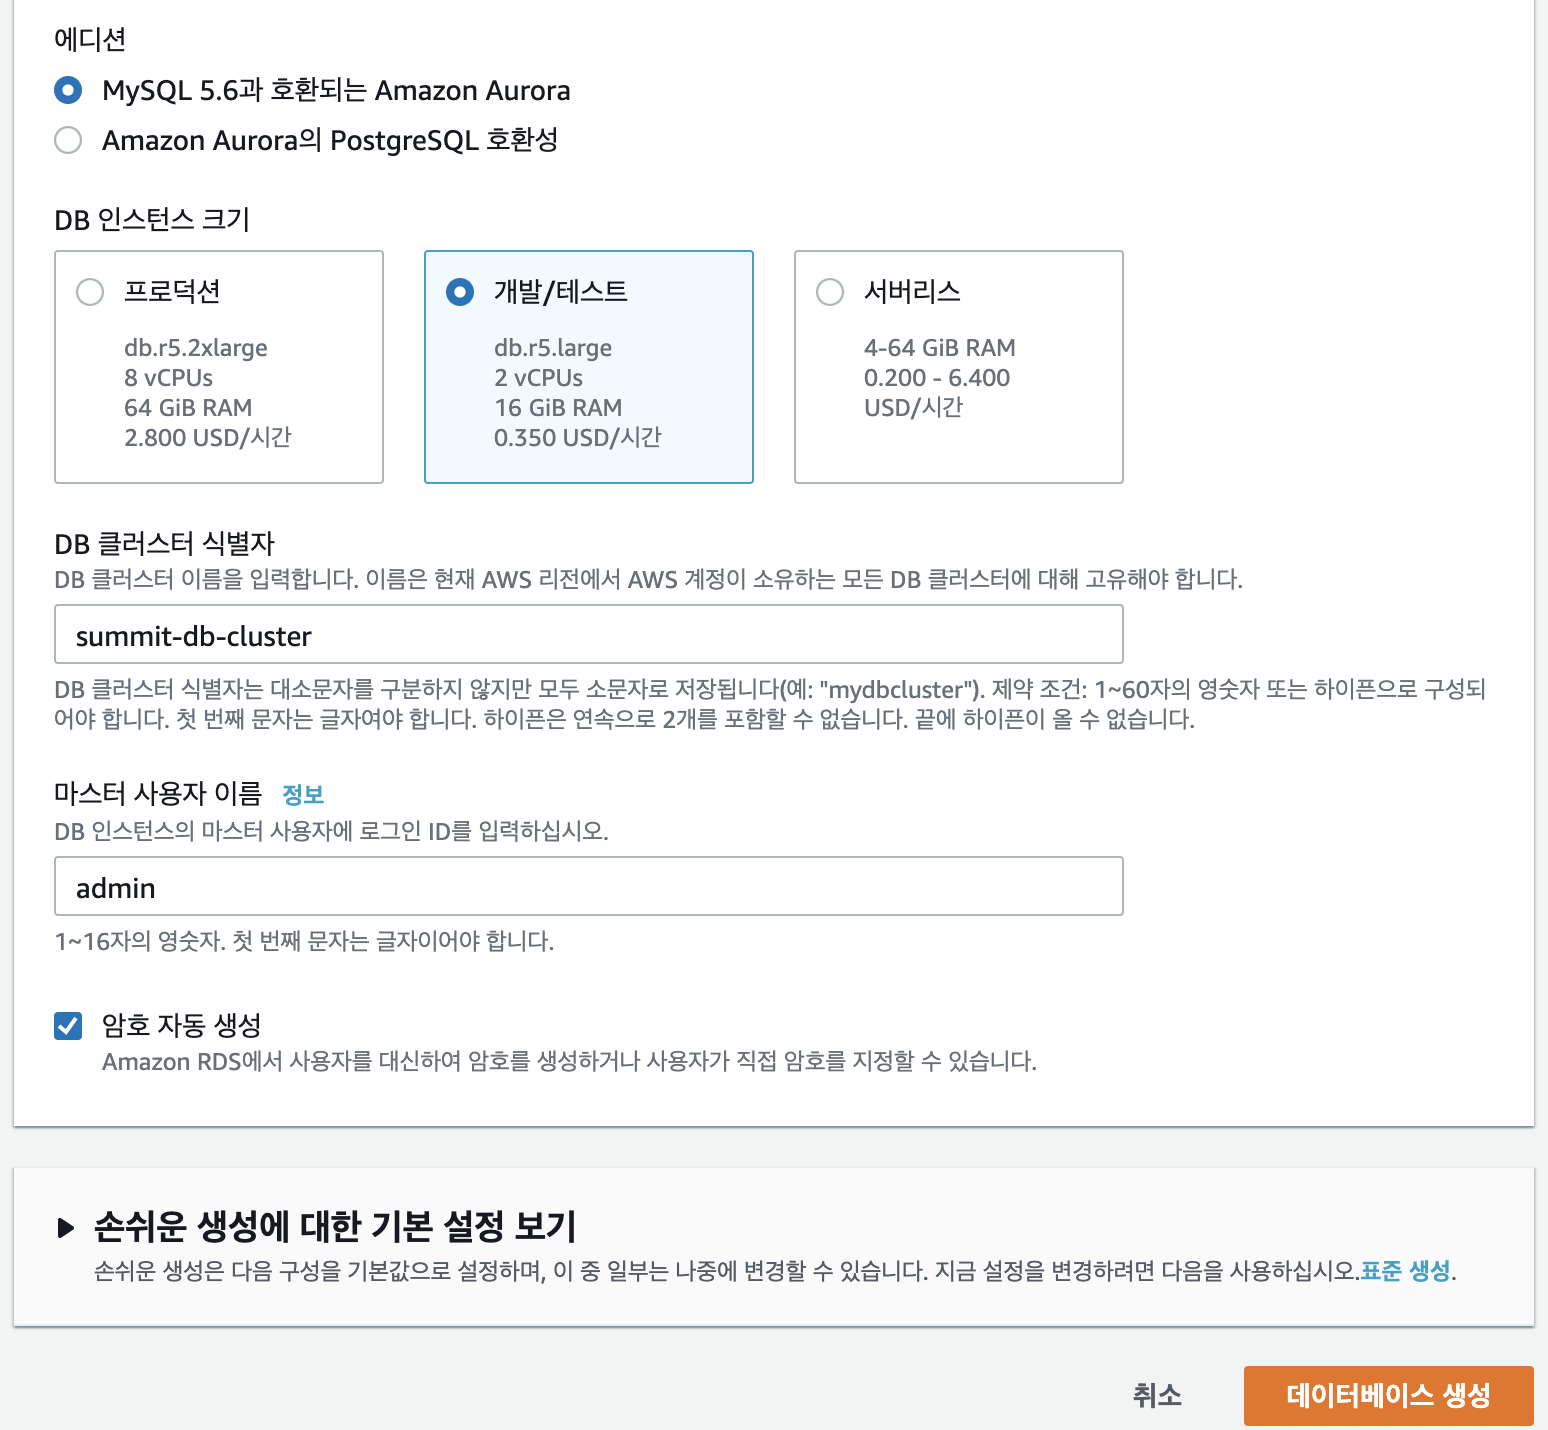
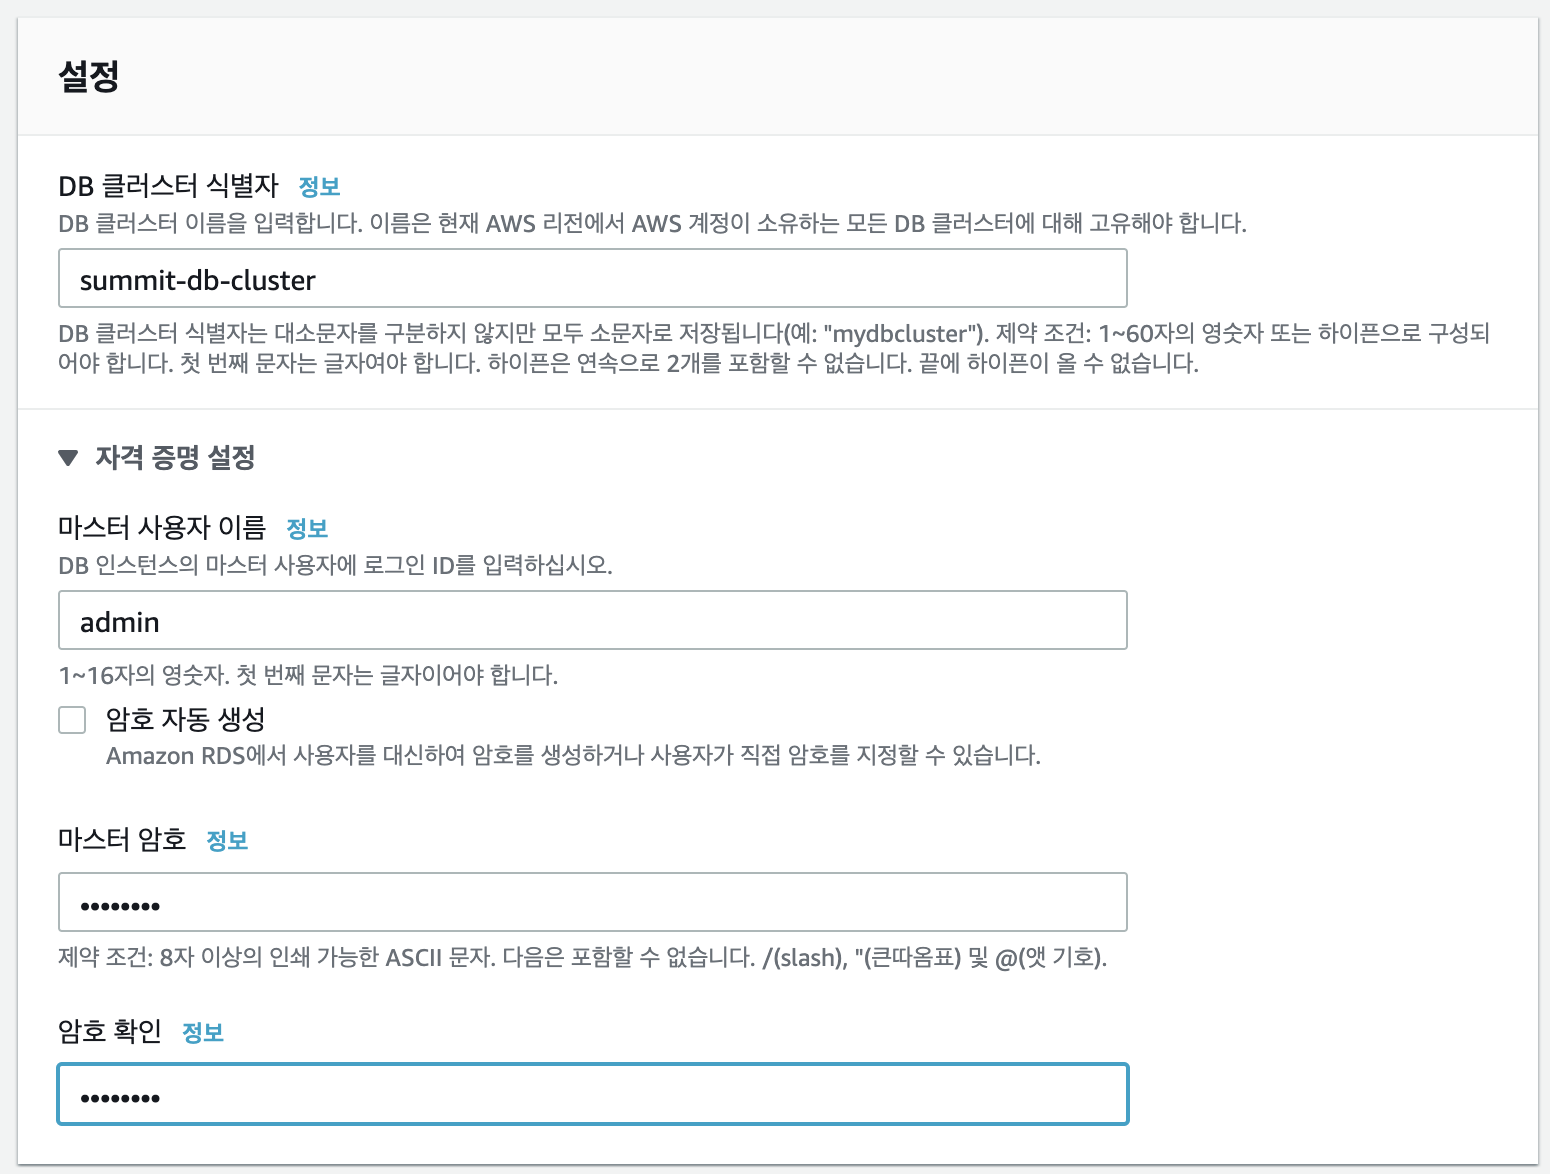
update contents

Changed region(s): [[0.0, 0.0307, 1.0, 1.0], [0.031, 0.368, 0.9612, 0.6746], [0.031, 0.0, 0.9612, 0.3373]]

diff --git a/content/lab0/_index.ko.md b/content/lab0/_index.ko.md
@@ -34,11 +34,17 @@ pre: "<b>1. </b>"
 `마스터 사용자 이름`에는 MySQL에서 사용할 마스터 사용자 이름을 입력합니다.
 마스터 사용자의 암호를 입력하고 데이터 베이스 생성을 클릭합니다.
 
+> 데이터 베이스 생성 시 마스터 암호를 지정하여 생성하고 향후 사용을 위해 별도의 텍스트 에디터에 메모하시는 것을 권장드립니다.
+
 ![pic](./images/lab0-2.png)
 
-5. Amazon Aurora 클러스터가 생성되면 엔드포인트를 따로 적어둡니다.
+5. 네트워크 및 보안탭에 가신 후에 퍼블릭 엑세스 가능성에서 예를 선택합니다.
 
 ![pic](./images/lab0-3.png)
+
+6. Amazon Aurora 클러스터가 생성되면 엔드포인트를 따로 적어둡니다.
+
+![pic](./images/lab0-4.png)
 
 
 ## EC2 instance 생성
@@ -55,6 +61,18 @@ pre: "<b>1. </b>"
 
 
 ## 실습 데이터 다운로드
+
+생성한 EC2를 이용하여 실습을 진행합니다.
+먼저 EC2 생성 시 다운로드 한 ssh key를 이용하여 접속합니다.
+```
+ssh -i <ssh private key> ec2-user@<your EC2 public dns name>
+```
+ 
+AWS cli configuration
+
+```
+aws configure
+```
 
 1. 실습에서 사용할 데이터를 다운로드합니다. 이 데이터는 Kaggle에서 찾을 수 있으며 유저의 구매 이력 데이터로서 DB용 데이터를 만드는데 사용되었으며, 추후 SageMaker 실습에서 사용할 예정입니다.
 	

diff --git a/content/lab2/_index.ko.md b/content/lab2/_index.ko.md
@@ -86,6 +86,23 @@ pre: "<b>3. </b>"
 7. 변경사항 저장을 클릭하여 파라미터 그룹 편집을 완료합니다.
 
 
+8. 이제 Aurora 클러스터에 파라미터 그룹이 적용되도록 수정해야 합니다.
+데이터 베이스 클러스터를 선택하고 수정 버튼을 누릅니다.
+
+![pic](./images/lab2-12.png)
+
+9. 데이터베이스 옵션에서 DB 클러스터 파라미터 그룹을 앞의 스텝에서 생성한 aurora-parameter-group으로 선택합니다.
+
+![pic](./images/lab2-13.png)
+
+10. 수정 사항을 즉시 적용하여 반영합니다.
+
+![pic](./images/lab2-14.png)
+
+11. 데이터베이스를 재부팅하여 적용된 파라미터를 오로라에서 사용 가능하게 합니다.
+
+![pic](./images/lab2-15.png)
+
 ### Aurora 기계 학습 서비스 호출을 위한 SQL 권한 부여
 
 데모에서는 admin 유저를 사용하고 있습니다. 만약 데이터베이스 유저에게 Aurora 기계 학습 서비스 호출 권한이 없다면 아래와 같이 추가해 줍니다.

diff --git a/content/lab4/_index.ko.md b/content/lab4/_index.ko.md
@@ -1,7 +1,7 @@
 ---
 title: 실습에 사용한 리소스 삭제하기
-weight: 50
-pre: "<b>4. </b>"
+weight: 60
+pre: "<b>5. </b>"
 ---
 
 과도한 비용이 청구되지 않도록 실습에서 사용했던 아래의 리소스를 모두 삭제합니다.
